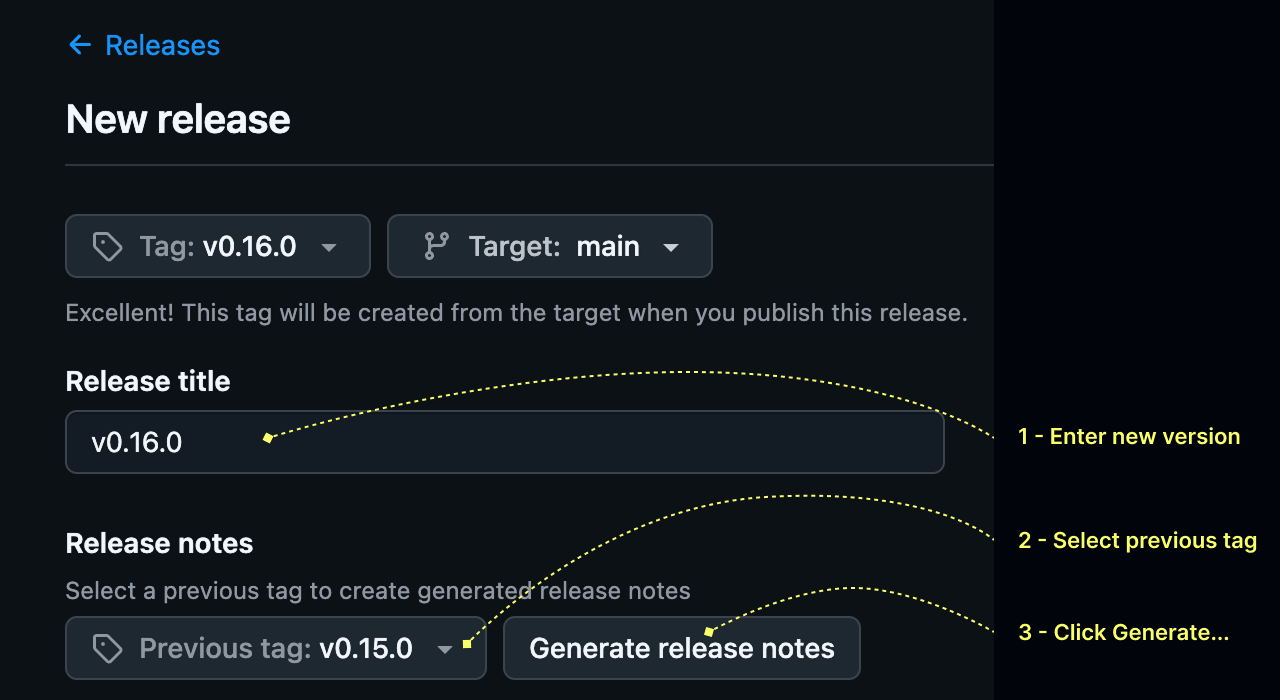
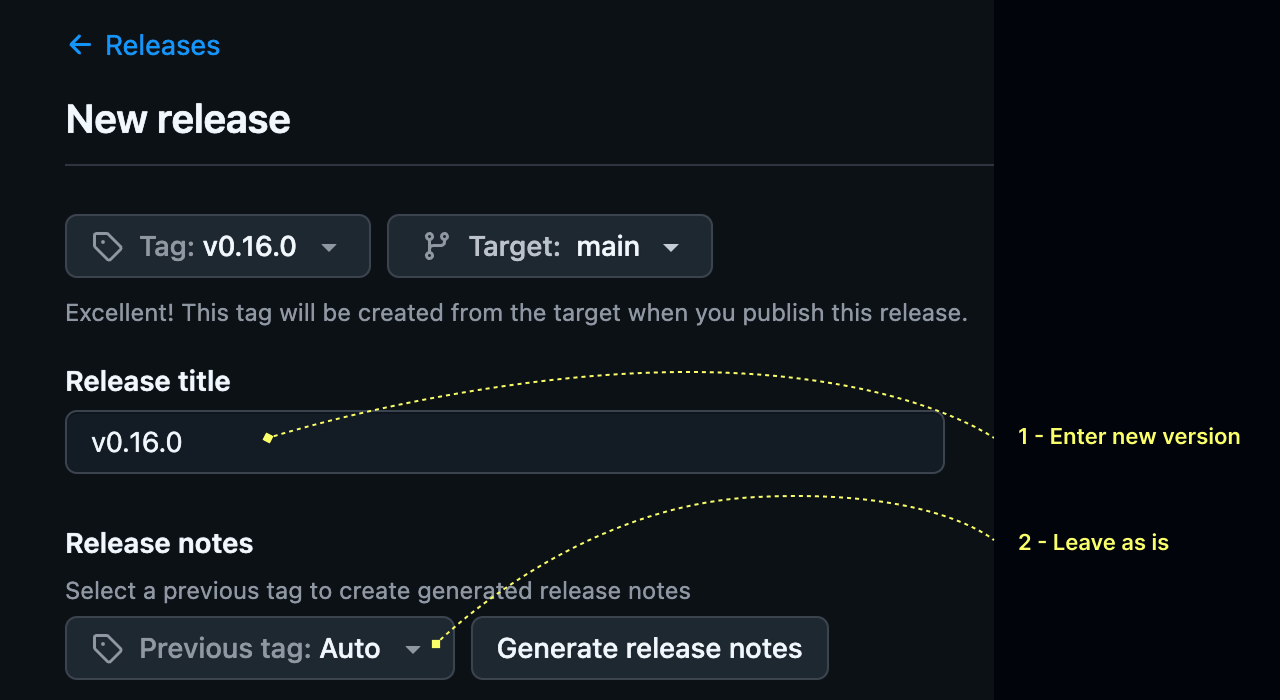
chore: cr updates

diff --git a/.scripts/bash/release-body.test.ts b/.scripts/bash/release-body.test.ts
@@ -9,7 +9,7 @@ import { afterAll, describe, expect, it } from 'vitest';
 // Invoked directly (not via `bash <script>`), the way .github/workflows/publish.yml does.
 const SCRIPT = fileURLToPath(new URL('./release-body', import.meta.url));
 
-// What GitHub generates for a release ("Generate release notes" button or the generate-notes API).
+// GitHub's generated notes, as publish.yml gets them from the generate-notes API.
 const GENERATED = `## What's Changed
 * feat(Logos): add the Amazon S3 Tables for Iceberg logo by @XOP in https://github.com/ClickHouse/click-ui/pull/1251
 * fix(TextAreaField): use change event for value updates by @fallintoplace in https://github.com/ClickHouse/click-ui/pull/1243

diff --git a/docs/publish.md b/docs/publish.md
@@ -32,14 +32,34 @@ The tag decides the npm dist-tag (the label that people install with, for exampl
 2. Draft a [new release](https://github.com/ClickHouse/click-ui/releases/new).
 3. Create the tag. Use the next version after the latest release: `vX.Y.Z` for a release,
    `vX.Y.Z-rc1` for a release candidate. ![Create tag instruction](./images/publish-1.png)
-4. Leave the description empty, or click "Generate release notes". The workflow writes the final
-   notes in both cases. ![Release notes instruction](./images/publish-2.png)
+4. Leave the description empty. The workflow writes the release notes.
+   ![Release notes instruction](./images/publish-2.png)
 5. For an `rc` or `alpha` tag, select **"Pre-release"** label. For regular "production" release leave label at **"Latest"**.  
    Publish the release. ![Release](./images/publish-3.png)
 6. Wait for the [workflow run](https://github.com/ClickHouse/click-ui/actions/workflows/publish.yml)
    to finish. If the workflow rejects the release, the run summary tells you why.
 7. Check the new version on [npm](https://www.npmjs.com/package/@clickhouse/click-ui) and check
    the release notes on GitHub. You can edit the notes now. The workflow does not touch them again.
+
+## Start over
+
+> [!WARNING]
+> For maintainers only.
+
+If the release has a wrong tag or a wrong "Set as a pre-release" checkbox, or when
+it failed and **Re-run all jobs** does not help. Do this only if the version is **not on npm yet**.
+
+1. If the release's [workflow run](https://github.com/ClickHouse/click-ui/actions/workflows/publish.yml)
+   still waits or runs, cancel it.
+2. Delete the release and its tag. The workflow builds the tip of `main`, so an old tag would
+   point at a different commit than the one published.
+   - **With** the GitHub CLI: `gh release delete vX.Y.Z --cleanup-tag --repo ClickHouse/click-ui`.
+   - **Without** the Github CLI: on the [releases page](https://github.com/ClickHouse/click-ui/releases), click the
+     trash icon next to the release, then **Delete this release**. Then delete the tag with git:
+     `git push origin --delete vX.Y.Z`.
+3. Follow the [steps](#steps) again.
+
+If the release is already on npm reach out in `click-ui` Slack channel for alignment.
 
 ## Changelog and release notes
 
@@ -92,5 +112,5 @@ npm i @clickhouse/click-ui@canary
   artifact (kept for a day) holds the `CHANGELOG.md` to commit together with the version bump. For
   a release, also delete the used changesets. The release notes are in the run summary. A manual
   run also needs the git tag.
-- You cannot fix the "Set as a pre-release" checkbox with a re-run. Delete the release and create
-  it again for the same tag.
+- You cannot fix the "Set as a pre-release" checkbox with a re-run. [Start over](#start-over) with
+  the same tag.
